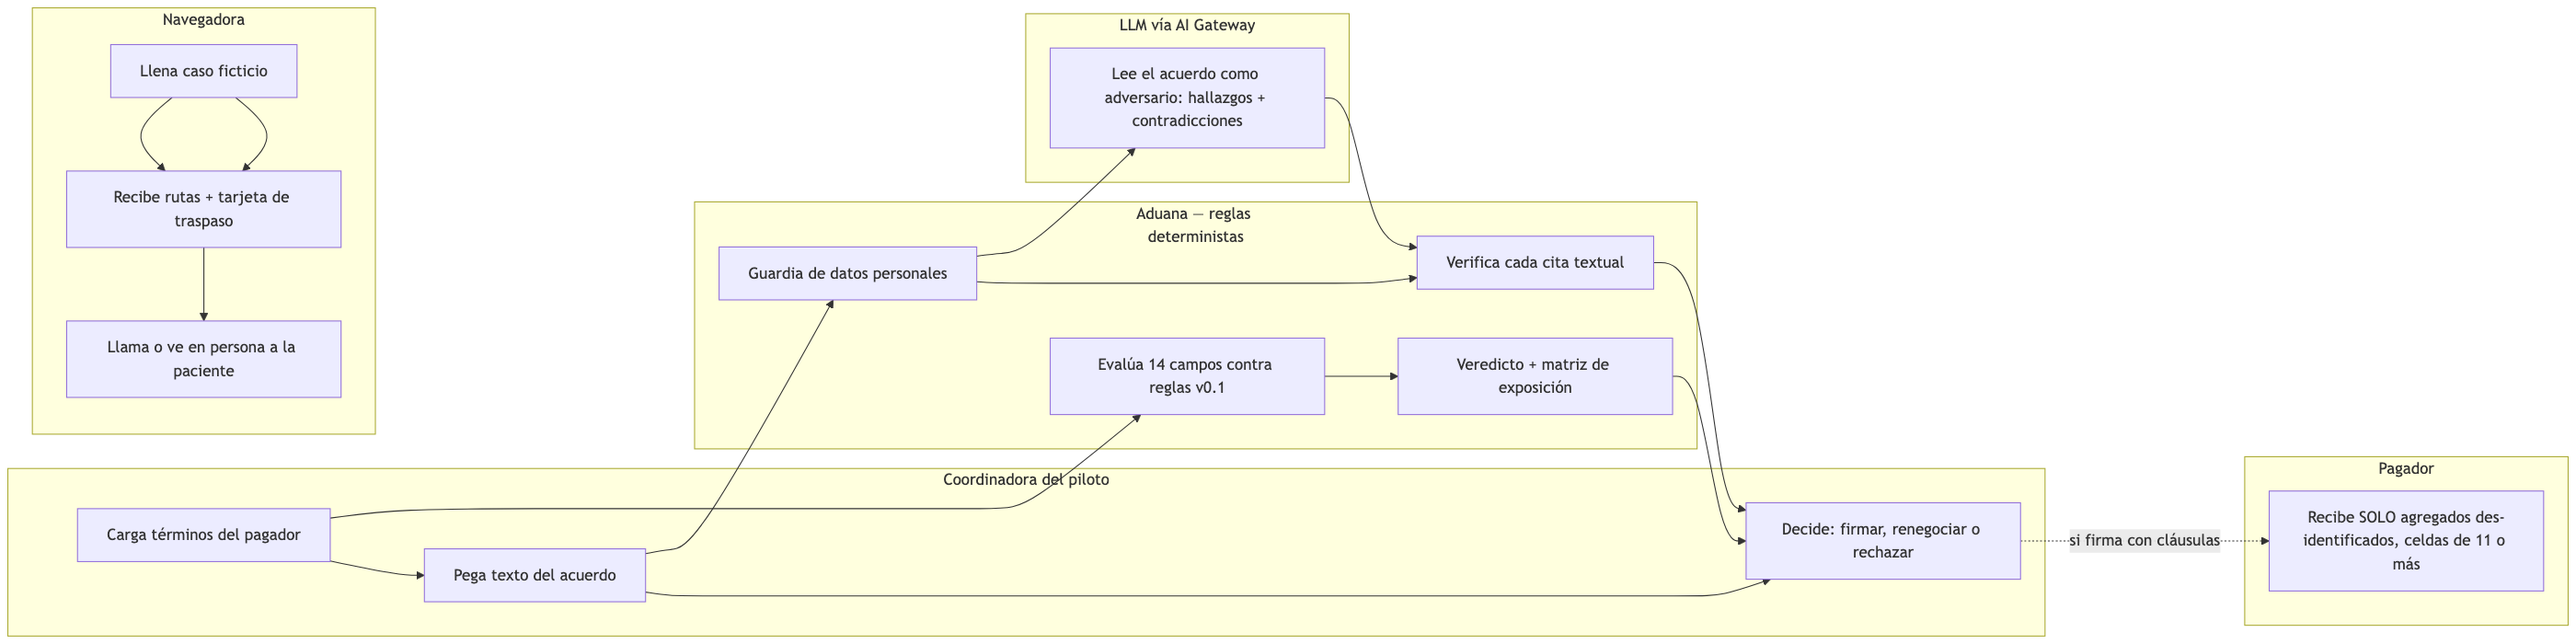
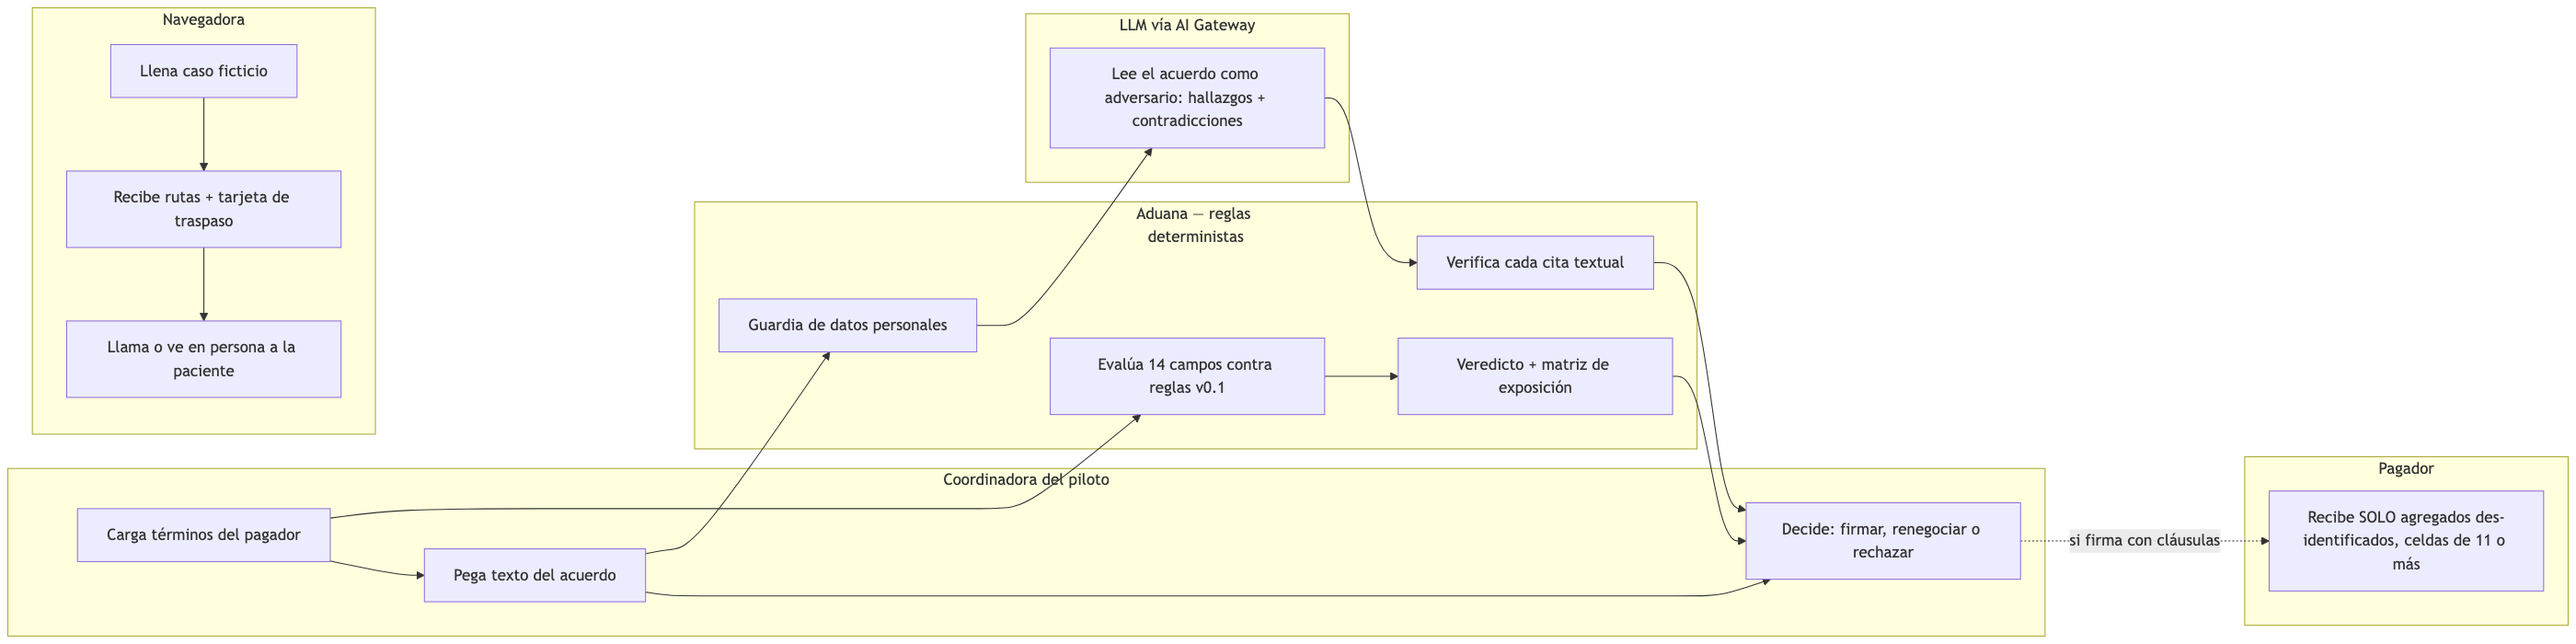
docs: fix swimlane duplicate edges and mockup table labels

Changed region(s): [[0.2796, 0.36, 0.435, 0.57]]

diff --git a/docs/PACKET.md b/docs/PACKET.md
@@ -72,7 +72,8 @@ flowchart LR
   end
   subgraph ADUANA[Aduana — reglas deterministas]
     a1[Evalúa 14 campos contra reglas v0.1] --> a2[Veredicto + matriz de exposición]
-    a3[Guardia de datos personales] --> a4[Verifica cada cita textual]
+    a3[Guardia de datos personales]
+    a4[Verifica cada cita textual]
   end
   subgraph IA[LLM vía AI Gateway]
     i1[Lee el acuerdo como adversario: hallazgos + contradicciones]
@@ -87,7 +88,6 @@ flowchart LR
   c2 --> a3 --> i1 --> a4 --> c3
   a2 --> c3
   c3 -. si firma con cláusulas .-> p1
-  n1 --> n2
 ```
 
 ## Benchmark
